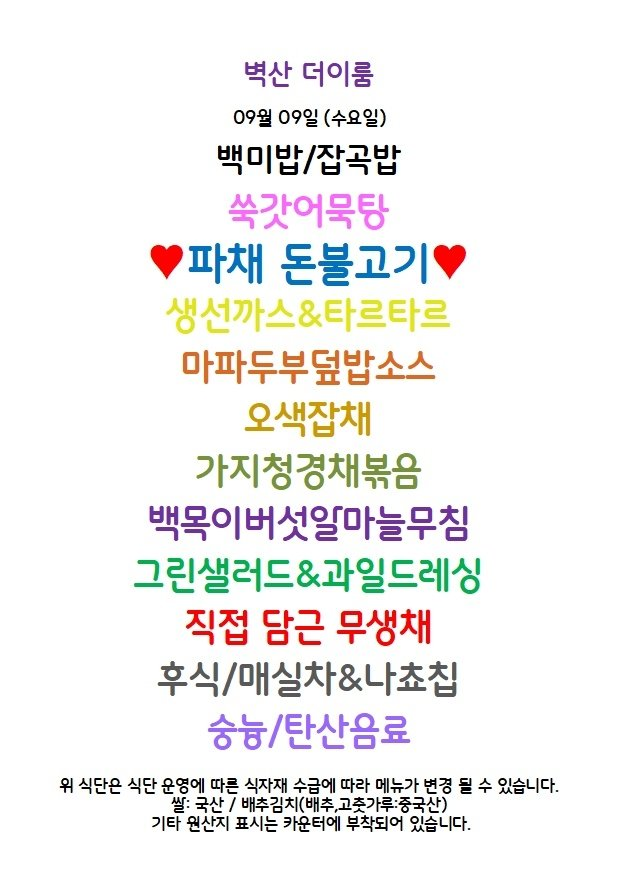
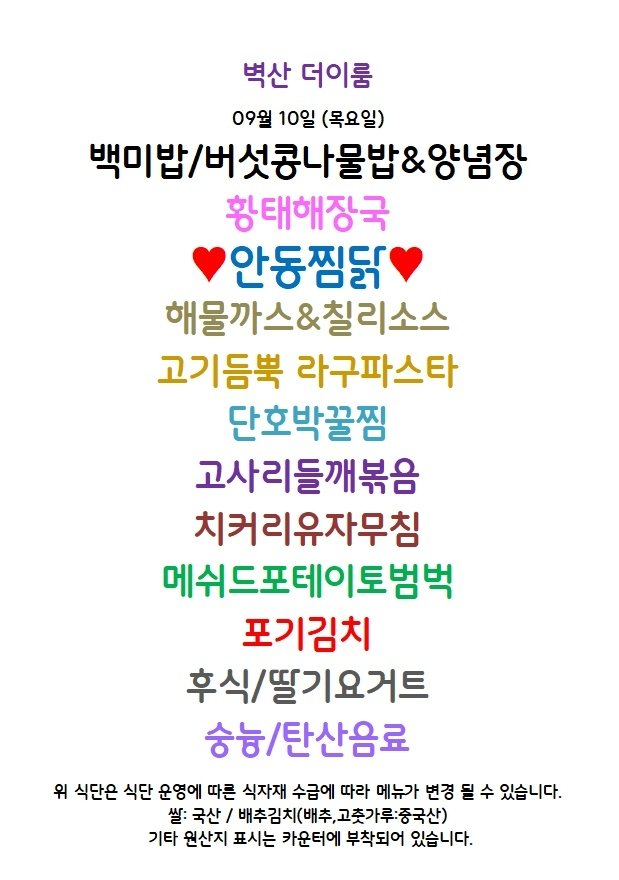
Update menu board assets

Changed region(s): [[0.0921, 0.1227, 0.9208, 0.9818], [0.399, 0.0614, 0.6139, 0.092]]

diff --git a/guro-menu/index.html b/guro-menu/index.html
@@ -32,7 +32,7 @@
   </header>
   <section class="meta">
     <div><small>기준 날짜</small><strong>2026년 9월 10일 목요일</strong></div>
-    <div><small>최종 갱신</small><strong>2026-09-10 09:03:53</strong></div>
+    <div><small>최종 갱신</small><strong>2026-09-10 09:13:21</strong></div>
     <div><small>등록 식당</small><strong>5개</strong></div>
   </section>
   <div class="notice">공개 카카오 채널의 메뉴 이미지를 자동 수집하고 OCR로 정리합니다. 텍스트에 오타가 있을 수 있으니 식단 이미지를 함께 확인해 주세요.</div>
@@ -89,8 +89,8 @@
           <a class="channel" href="https://pf.kakao.com/_xdLzxgG" target="_blank" rel="noopener">원본 채널</a>
         </div>
         <img class="menu-image" src="./images/byucksan-theirum.png" alt="벽산더이룸 식단 이미지" loading="lazy">
-        <p class="message">최신 공개 식단 이미지의 텍스트입니다. 날짜는 원본 이미지를 확인해 주세요.</p>
-        <ul><li>백미밥/잡곡밥</li><li>쑥갓어묵탐</li><li>파재 돈불고기</li><li>마파두부덮밥소스</li><li>오색잡채</li><li>가지청경채볶음</li><li>백목이버섯일마늘무침</li><li>그린샐러드&amp;과일드레싱</li><li>직접 담근 무생채</li><li>후식/매실차&amp;나초칩</li><li>숭늉/탄산음료</li></ul>
+        
+        <ul><li>백미밥/버섯콤나물밥&amp;양념장</li><li>황태해장국</li><li>해물까스&amp;칠리소스</li><li>D? S# 라구파스타</li><li>단호박꿀찜</li><li>고사리들깨볶음</li><li>치커리유자무침</li><li>메쉬드포테이토범벅</li><li>포기김치</li><li>숭늉/탄산음료</li><li>ME: 국산 / 배추김치(바추,고촛가루:중국산)</li><li>기타 원산지 표시는 카운터에 부착되어 있습니다</li></ul>
       </article>
 
       <article class="restaurant-card">

diff --git a/menu-today/index.html b/menu-today/index.html
@@ -209,7 +209,7 @@
 
     <section class="meta-bar">
       <div class="meta-card"><div class="meta-label">기준 날짜</div><div class="meta-value">2026년 9월 10일 목요일</div></div>
-      <div class="meta-card"><div class="meta-label">최종 가져온 시간</div><div class="meta-value">2026-09-10 09:03:41</div></div>
+      <div class="meta-card"><div class="meta-label">최종 가져온 시간</div><div class="meta-value">2026-09-10 09:13:06</div></div>
       <div class="meta-card"><div class="meta-label">확인 완료</div><div class="meta-value">9개 식당</div></div>
       <div class="meta-card"><div class="meta-label">준비중</div><div class="meta-value">3개 채널</div></div>
     </section>
